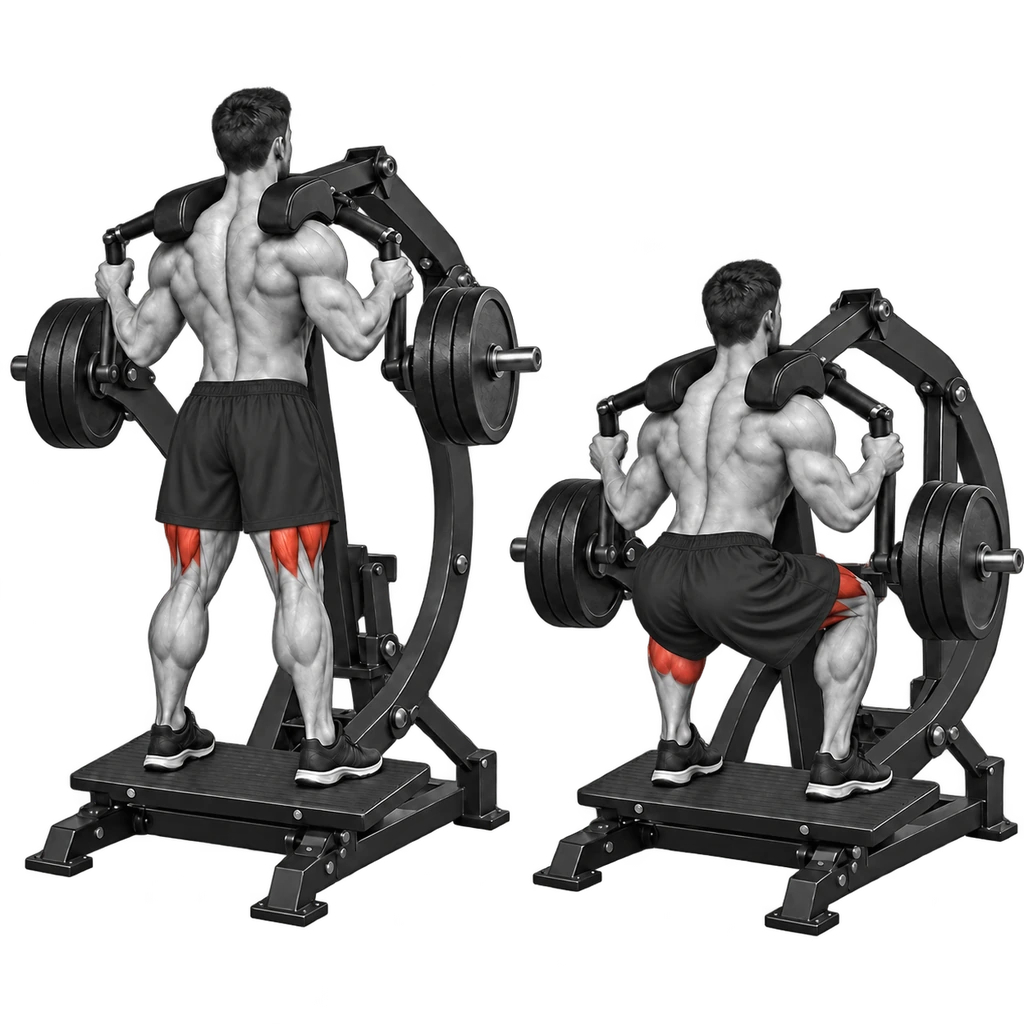
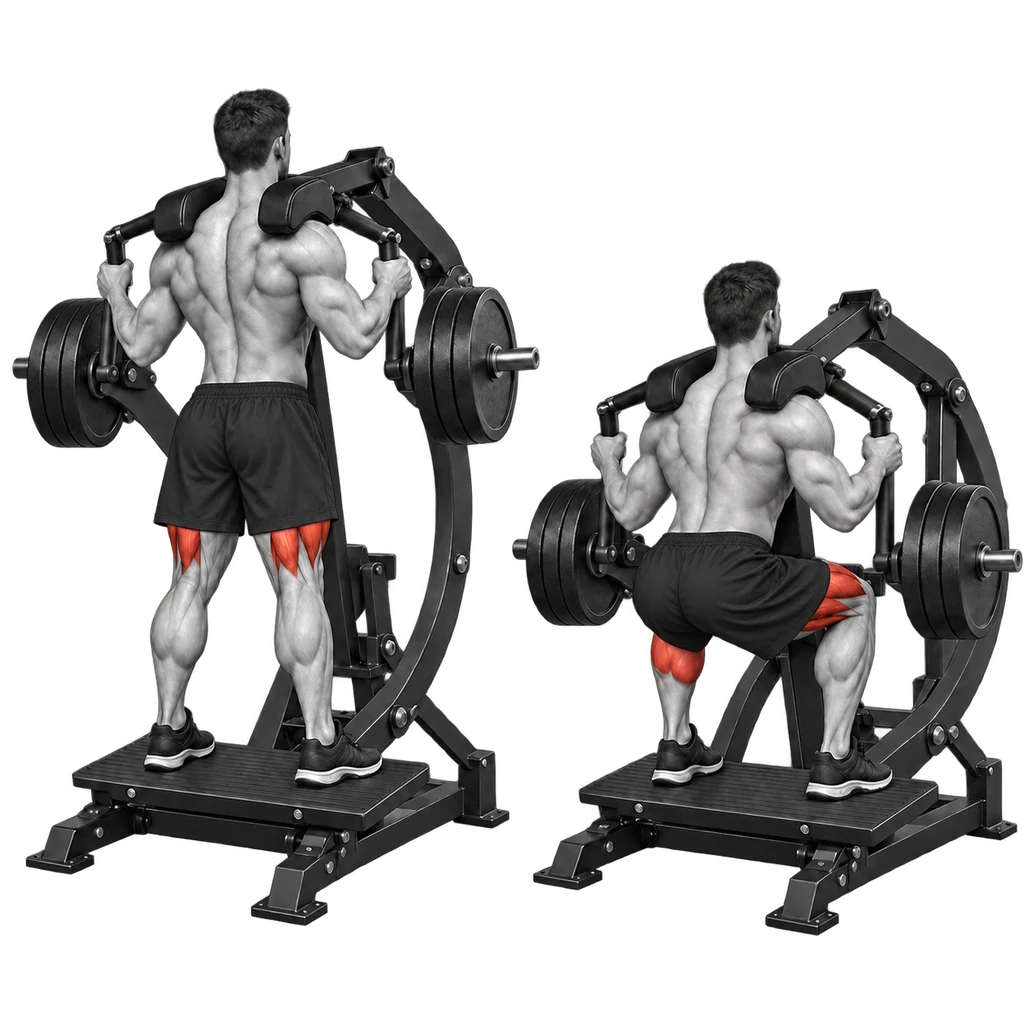
Loosen Super Squat Press shorts for coverage

diff --git a/docs/media-provenance.md b/docs/media-provenance.md
@@ -278,7 +278,7 @@ Three original AI-assisted illustrations added for Dumbbell Reverse Lunge, Cable
 
[1 lines of base64/hex data omitted]
 - **Date and creator:** 2026-10-22; Open Exercise Atlas, using the built-in OpenAI image generator. The tool did not expose a model identifier.
-- **Method:** Edited the existing original V-Squat illustration, preserving its two poses, machine, grayscale rendering, transparent background and red thigh emphasis. The 1254 × 1254 transparent PNG output was resized to 1024 × 1024 and converted to WebP with Pillow/libwebp (quality 92, alpha retained). Both poses now use clearly opaque black shorts extending to mid-thigh, covering the glutes, hips and groin; highlights remain below the shorts.
+- **Method:** Edited the existing original V-Squat illustration, preserving its two poses, machine, grayscale rendering, transparent background and red thigh emphasis. The 1254 × 1254 transparent PNG output was resized to 1024 × 1024 and converted to WebP with Pillow/libwebp (quality 90, alpha retained). Both poses now use clearly opaque black shorts extending to mid-thigh, covering the glutes, hips and groin; highlights remain below the shorts.
 - **Prompt summary:** Preserve the exact two-panel V-Squat illustration and make the shorts unmistakably opaque and longer in both poses; fully cover glutes, pelvis and groin; no red highlighting on or through clothing; transparent background; no text.
 - **Source and rights:** This is an edit of Atlas's existing original AI-assisted V-Squat art; no third-party artwork was imported. The project dedicates any rights it holds in this original illustration under [CC0 1.0](https://creativecommons.org/publicdomain/zero/1.0/). [OpenAI Terms of Use](https://openai.com/policies/terms-of-use/) assign output to the user to the extent permitted by applicable law; outputs may not be unique, and no exclusivity is claimed. Generated media is not expert technique approval.
 - **Record:** [`v-squat.json`](../data/exercises/v-squat.json).
@@ -339,9 +339,9 @@ Three original AI-assisted illustrations added for Dumbbell Reverse Lunge, Cable
 
 ## Plate-Loaded Super Squat Press illustration correction
 
[2 lines of base64/hex data omitted]
 - **Date and creator:** 2026-10-22; Open Exercise Atlas, using the built-in OpenAI image generator. The tool did not expose a model identifier.
-- **Method:** After Yağız asked for clearer coverage, edited the original two-pose illustration, preserving the machine, poses, muscle highlights, grayscale style, and transparent background. Replaced the shorts in both poses with a looser matte opaque black pair; the fabric fully covers the buttocks and groin without anatomical contours. The 1254 × 1254 RGBA PNG was resized to 1024 × 1024 and converted to WebP with Pillow/libwebp (quality 92, alpha retained). Highlighted quadriceps remain visible below the hems.
+- **Method:** After Yağız asked for clearer coverage, edited the original two-pose illustration, preserving the machine, poses, muscle highlights, grayscale style, and transparent background. Replaced the shorts in both poses with a looser matte opaque black pair; the fabric fully covers the buttocks and groin without anatomical contours. The 1254 × 1254 RGBA PNG was resized to 1024 × 1024 and converted to WebP with Pillow/libwebp (quality 90, alpha retained). Highlighted quadriceps remain visible below the hems.
 - **Source and rights:** This is an edit of Atlas's existing original AI-assisted illustration; no third-party artwork was imported. The project dedicates any rights it holds in this original illustration under [CC0 1.0](https://creativecommons.org/publicdomain/zero/1.0/). [OpenAI Terms of Use](https://openai.com/policies/terms-of-use/) assign output to the user to the extent permitted by applicable law; outputs may not be unique, and no exclusivity is claimed. Generated media is not expert technique approval.
 - **Record:** [`plate-loaded-super-squat-press.json`](../data/exercises/plate-loaded-super-squat-press.json).
 
@@ -349,7 +349,7 @@ Three original AI-assisted illustrations added for Dumbbell Reverse Lunge, Cable
 
 - **Asset:** `media/exercises/plate-loaded-seated-dip.webp` (207,924 bytes; SHA-256 `fdb27e67a8305a70915d4b5245cf9267be2463fd6d00eb6634ebbd9fc0497de`).
 - **Date and creator:** 2026-10-22; Open Exercise Atlas, using the built-in OpenAI image generator. The tool did not expose a model identifier.
-- **Method:** Original transparent 1280 × 1280 RGBA PNG resized to 1024 × 1024 and converted to WebP with Pillow/libwebp (quality 92, alpha retained). Two phases show an inward-facing seated dip: elbows bent at the start, then press-down to near extension. The triceps are highlighted red. Loose, opaque black shorts fully cover the hips, buttocks, and groin.
+- **Method:** Original transparent 1280 × 1280 RGBA PNG resized to 1024 × 1024 and converted to WebP with Pillow/libwebp (quality 90, alpha retained). Two phases show an inward-facing seated dip: elbows bent at the start, then press-down to near extension. The triceps are highlighted red. Loose, opaque black shorts fully cover the hips, buttocks, and groin.
 - **Source and rights:** The product setup and muscle focus are based on Life Fitness/Hammer Strength's [Plate Loaded Seated Dip product page](https://shop.lifefitness.com/products/hammer-strength-plate-loaded-seated-dip), which describes the seated support, face-in position, restraint, and triceps as the primary target. No third-party artwork was imported. The project dedicates any rights it holds in this original illustration under [CC0 1.0](https://creativecommons.org/publicdomain/zero/1.0/). [OpenAI Terms of Use](https://openai.com/policies/terms-of-use/) assign output to the user to the extent permitted by applicable law; outputs may not be unique, and no exclusivity is claimed. Generated media is not expert technique approval.
 - **Record:** [`plate-loaded-seated-dip.json`](../data/exercises/plate-loaded-seated-dip.json).
 
@@ -357,7 +357,7 @@ Three original AI-assisted illustrations added for Dumbbell Reverse Lunge, Cable
 
[1 lines of base64/hex data omitted]
 - **Date and creator:** 2026-10-22; Open Exercise Atlas, using the built-in OpenAI image generator. The tool did not expose a model identifier.
-- **Method:** Original transparent 1280 × 1280 RGBA PNG resized to 1024 × 1024 and converted to WebP with Pillow/libwebp (quality 92, alpha retained). Two phases show a Smith bar resting across the front shoulders with raised elbows; the second phase lowers into a controlled squat. Quadriceps are highlighted red. Loose, opaque black shorts fully cover the hips, buttocks, and groin.
+- **Method:** Original transparent 1280 × 1280 RGBA PNG resized to 1024 × 1024 and converted to WebP with Pillow/libwebp (quality 90, alpha retained). Two phases show a Smith bar resting across the front shoulders with raised elbows; the second phase lowers into a controlled squat. Quadriceps are highlighted red. Loose, opaque black shorts fully cover the hips, buttocks, and groin.
 - **Technique and equipment sources:** ACE's [Front Squat to Overhead Press guide](https://www.acefitness.org/resources/everyone/exercise-library/315/front-squat-to-overhead-press/) describes the front-rack position and upright front squat; Life Fitness's [Smith Machine product page](https://www.lifefitness.com/en-us/catalog/strength-training/benches/life-fitness-smith-machine) describes its guided bar path. Atlas cues were written independently. No third-party artwork was imported. The project dedicates any rights it holds in this original illustration under [CC0 1.0](https://creativecommons.org/publicdomain/zero/1.0/). [OpenAI Terms of Use](https://openai.com/policies/terms-of-use/) assign output to the user to the extent permitted by applicable law; outputs may not be unique, and no exclusivity is claimed. Generated media is not expert technique approval.
 - **Record:** [`smith-machine-front-squat.json`](../data/exercises/smith-machine-front-squat.json).
 

diff --git a/docs/pilots/major-muscle-gap-2026-10-22.md b/docs/pilots/major-muscle-gap-2026-10-22.md
@@ -141,9 +141,9 @@ The ten-record follow-up and twenty-nine later priority-movement records use Atl
 
 ## Plate-Loaded Super Squat Press illustration correction
 
[2 lines of base64/hex data omitted]
 - **Date and creator:** 2026-10-22; Open Exercise Atlas, using the built-in OpenAI image generator. The tool did not expose a model identifier.
-- **Method:** After Yağız flagged the illustration for clearer coverage, edited the original two-pose illustration while preserving the machine, poses, muscle highlights, grayscale style, and transparent background. Replaced the shorts with a loose, matte opaque black pair, roomy through the seat and thighs, with draped fabric that fully covers the buttocks and groin in both poses and hides anatomical contours. The output is a 1280 × 1280 RGBA PNG resized to 1024 × 1024 and converted to WebP with Pillow/libwebp (quality 92, alpha retained; alpha extrema 0–255).
+- **Method:** After Yağız flagged the illustration for clearer coverage, edited the original two-pose illustration while preserving the machine, poses, muscle highlights, grayscale style, and transparent background. Replaced the shorts with a loose, matte opaque black pair, roomy through the seat and thighs, with draped fabric that fully covers the buttocks and groin in both poses and hides anatomical contours. The output is a 1280 × 1280 RGBA PNG resized to 1024 × 1024 and converted to WebP with Pillow/libwebp (quality 90, alpha retained; alpha extrema 0–255).
 - **Source and rights:** This is an edit of Atlas's existing original AI-assisted illustration; no third-party artwork was imported. The project dedicates any rights it holds in this original illustration under [CC0 1.0](https://creativecommons.org/publicdomain/zero/1.0/). [OpenAI Terms of Use](https://openai.com/policies/terms-of-use/) assign output to the user to the extent permitted by applicable law; outputs may not be unique, and no exclusivity is claimed. Generated media is not expert technique approval.
 - **Record:** [`plate-loaded-super-squat-press.json`](../data/exercises/plate-loaded-super-squat-press.json).
 
